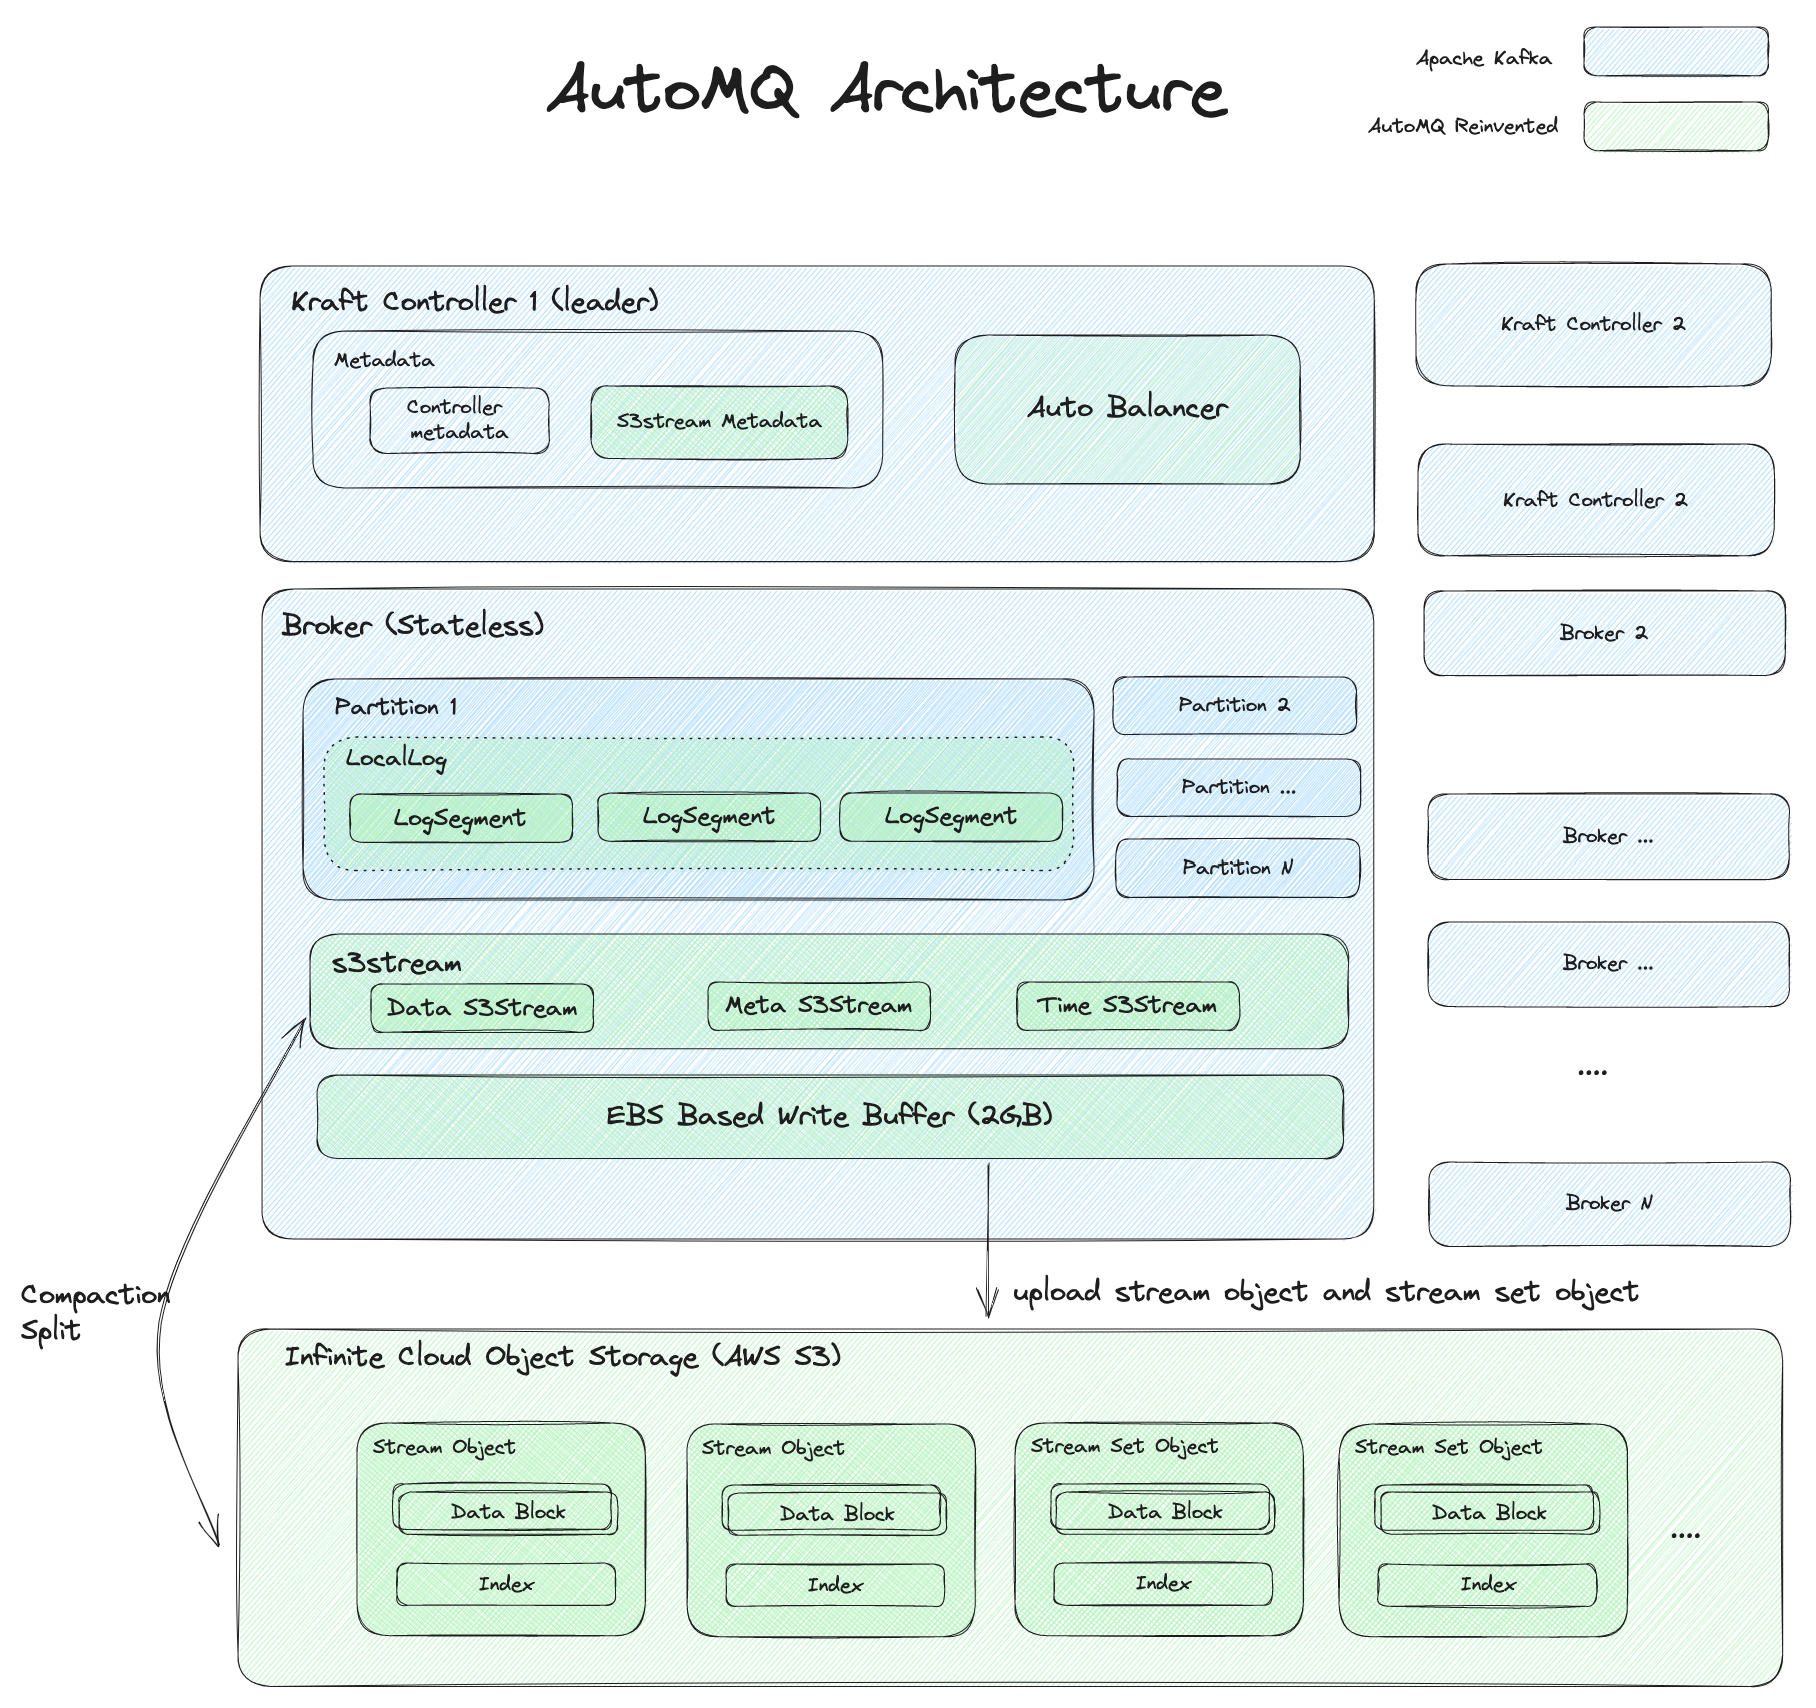
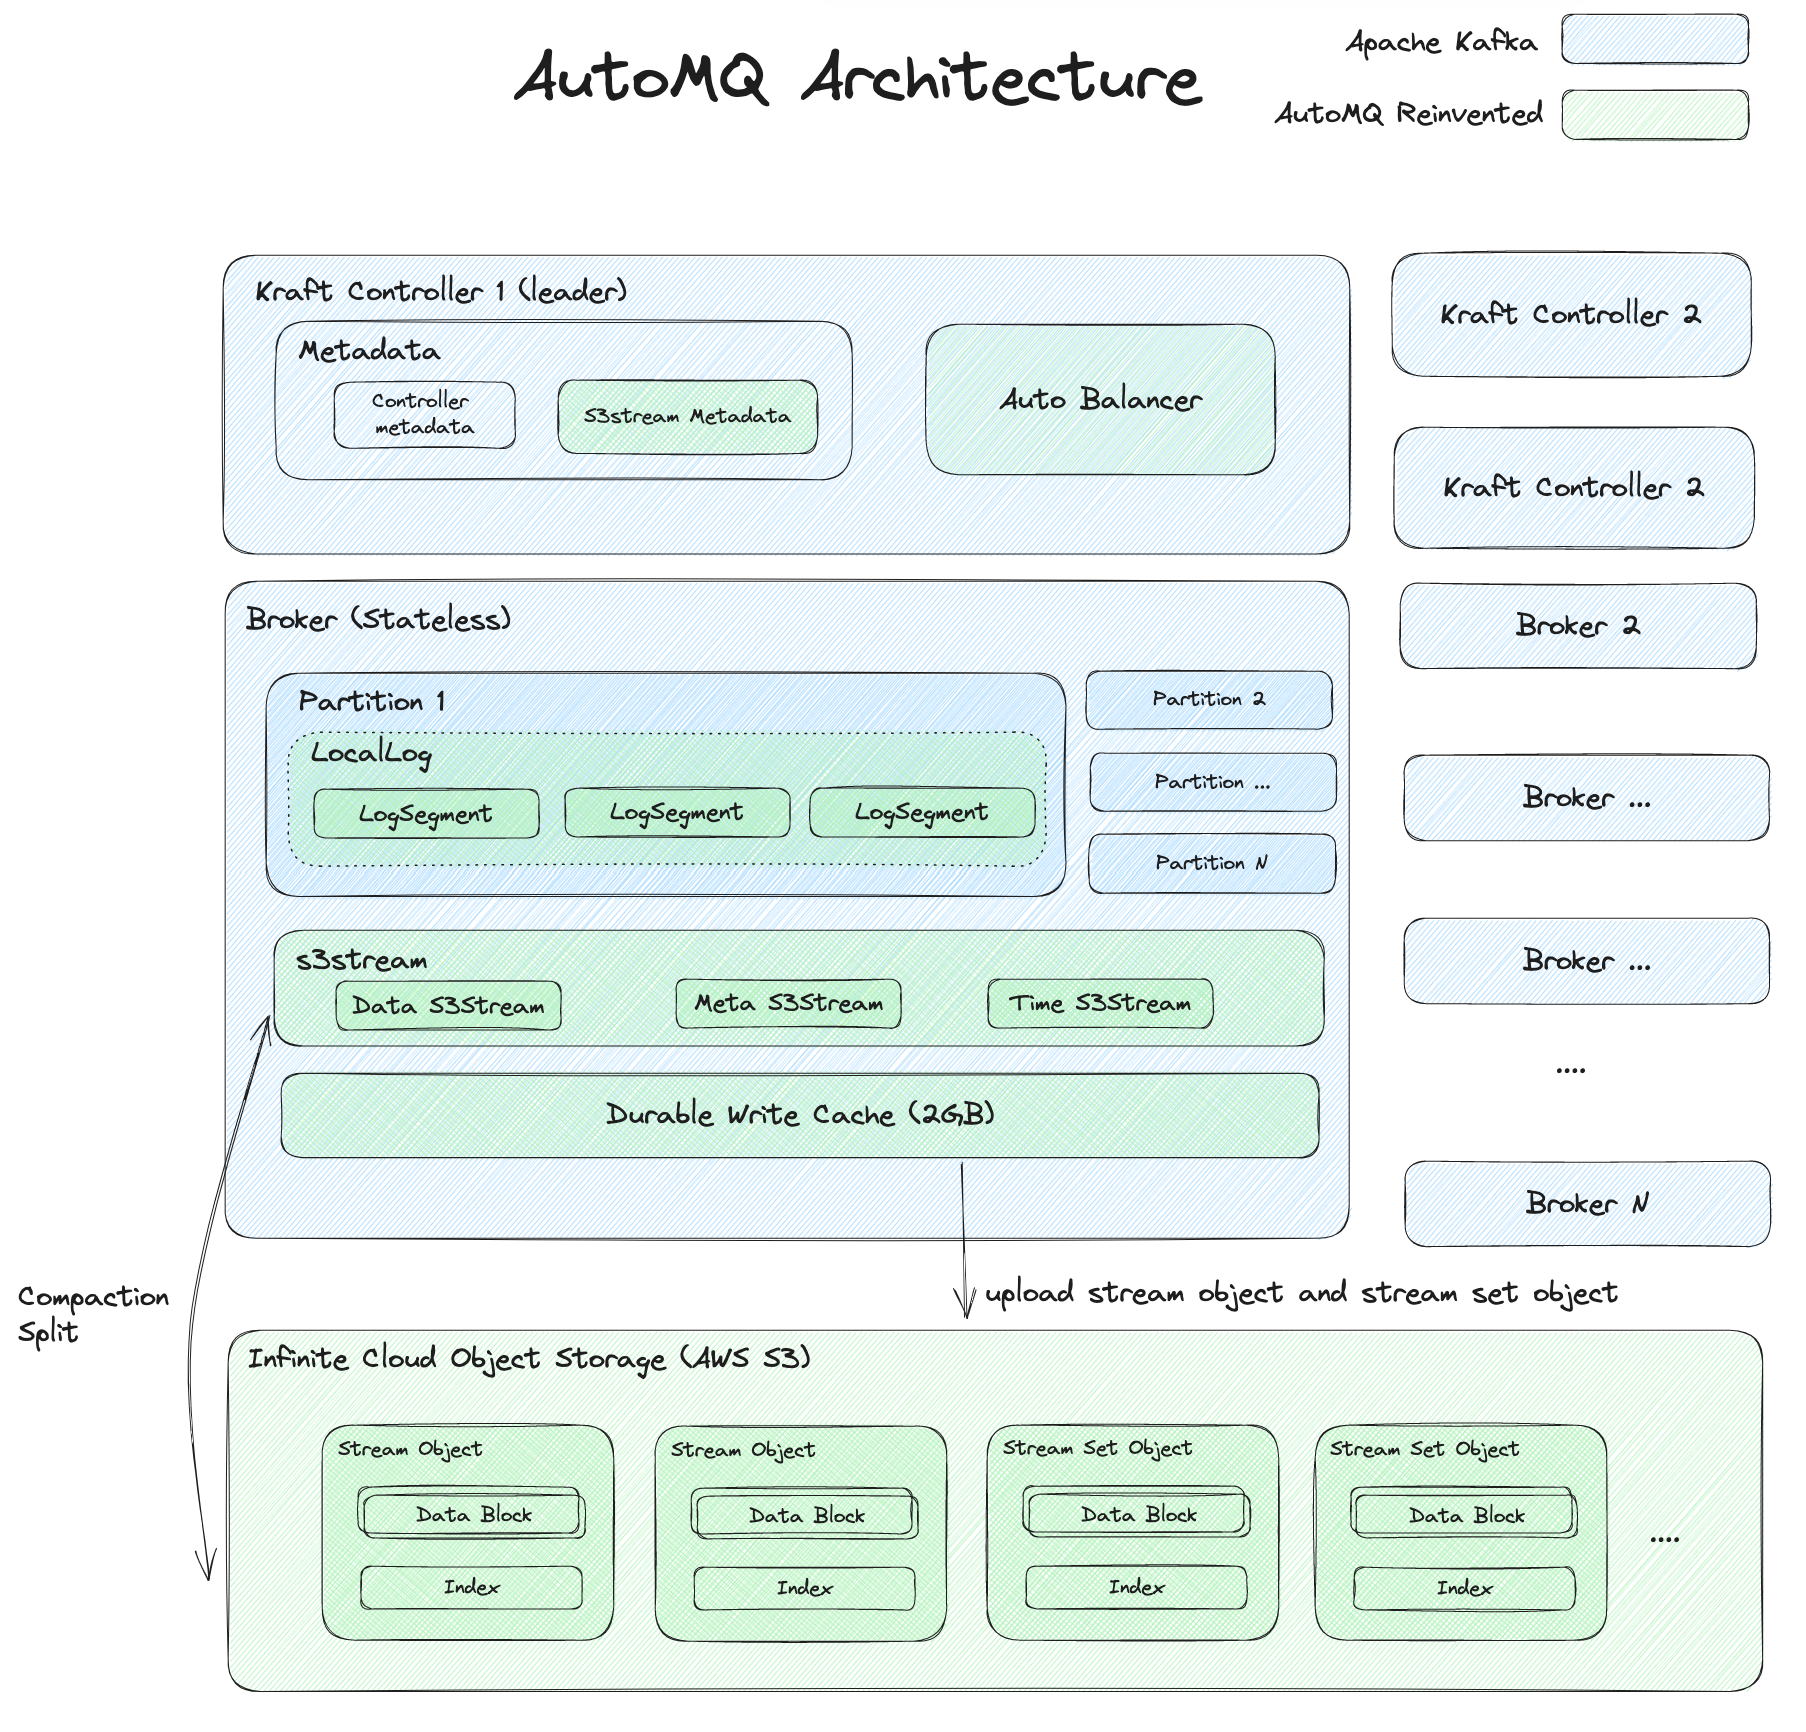
chore(doc): use durable cache layer to replace data write buffer

diff --git a/README.md b/README.md
@@ -55,7 +55,7 @@ AutoMQ is a cloud-native, serverless reinvented Kafka that is easily scalable, m
 - **Manage-less**: Built-in auto-balancer component balance partition and network traffic across brokers automatically. Never worry about partition re-balance. [Learn more](https://docs.automq.com/docs/automq-s3kafka/GSN2wZjeWiR70YkZiRsc6Hqsneh)
 - **Cost effective**: Use object storage as the main storage, take billing items into consideration when design system, fully utilize the cloud service, all of them contribute to AutoMQ and make it 10x cheaper than Apache Kafka. Refer [this report](https://docs.automq.com/docs/automq-s3kafka/EJBvwM3dNic6uYkZAWwc7nmrnae) to see how we cut Apache Kafka billing by 90% on the cloud.
 - **High performance**: 
-  - Low latency: Use cloud block storage like AWS EBS as the buffer layer to accelerate write.
+  - Low latency: Use cloud block storage like AWS EBS as the [durable cache layer]() to accelerate write.
   - High throughput: Use pre-fetching, batch processing and parallel to achieve high throughput.
 - **A superior alternative to Apache Kafka**: 100% compatible with Apache Kafka greater than 0.9.x and not lose any good features of it, but cheaper and better.
 
@@ -68,7 +68,7 @@ AutoMQ is a cloud-native, serverless reinvented Kafka that is easily scalable, m
 AutoMQ use logSegment as a code aspect of Apache Kafka to weave into our features. The architecture including the following main components:
 - **S3Stream**: A streaming library based on object storage offered by AutoMQ. It is the core component of AutoMQ and is responsible for reading and writing data to object storage. [Learn more](https://docs.automq.com/docs/automq-s3kafka/Q8fNwoCDGiBOV6k8CDSccKKRn9d).
 - **Stream**: Stream is a abstraction to mapping the logSegment of Apache Kafka. LogSegment's data, index and other meta will mapping to different type of stream. [Learn more](https://docs.automq.com/docs/automq-s3kafka/GUk7w0ZxniPwN7kUgiicIlHkn9d)
-- **EBS Write Data Buffer**: AutoMQ use a small size cloud block storage like AWS EBS as a write buffer to offer low latency write. Pay attention that this is not tiered storage and AutoMQ broker can decoupled from the data buffer completely. [Learn more](https://docs.automq.com/docs/automq-s3kafka/X1DBwDdzWiCMmYkglGHcKdjqn9f)
+- **EBS Durable Cache Layer**: AutoMQ use a small size cloud block storage like AWS EBS as the durable cache layer to accelerate write. Pay attention that this is not tiered storage and AutoMQ broker can decoupled from the durable cache layer completely. [Learn more](https://docs.automq.com/docs/automq-s3kafka/X1DBwDdzWiCMmYkglGHcKdjqn9f)
 - **Stream Object**: AutoMQ's data is organized by stream object. Data is read by stream object id through index. One stream have one stream object. [Learn more](https://docs.automq.com/docs/automq-s3kafka/Q8fNwoCDGiBOV6k8CDSccKKRn9d)
 - **Stream set object**: Stream set object is a collection of small stream object that aimed to decrease API invoke times and metadata size. [Learn more](https://docs.automq.com/docs/automq-s3kafka/Q8fNwoCDGiBOV6k8CDSccKKRn9d)
 
